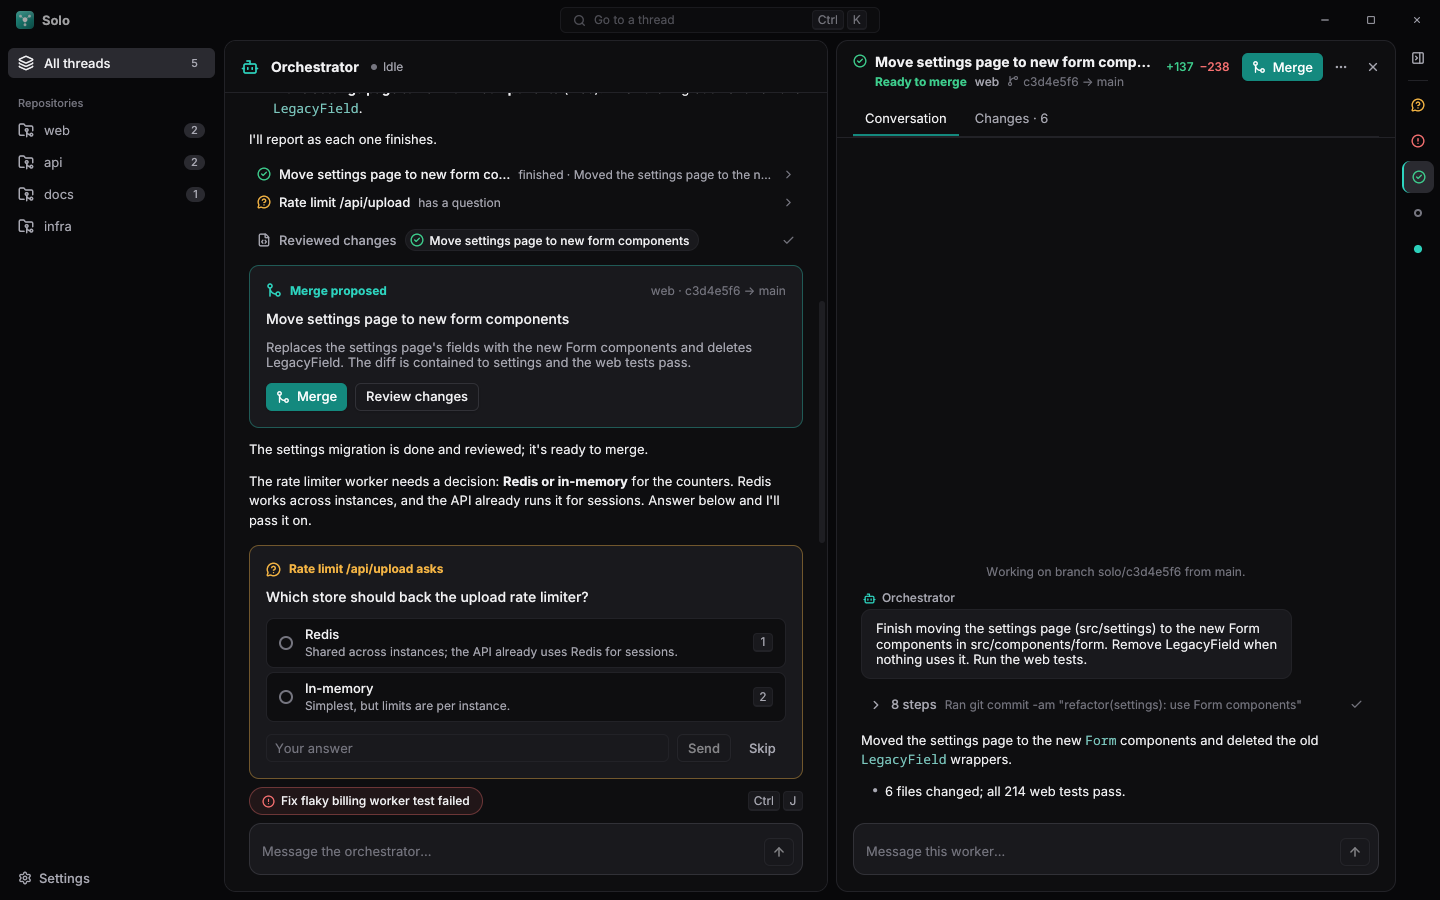
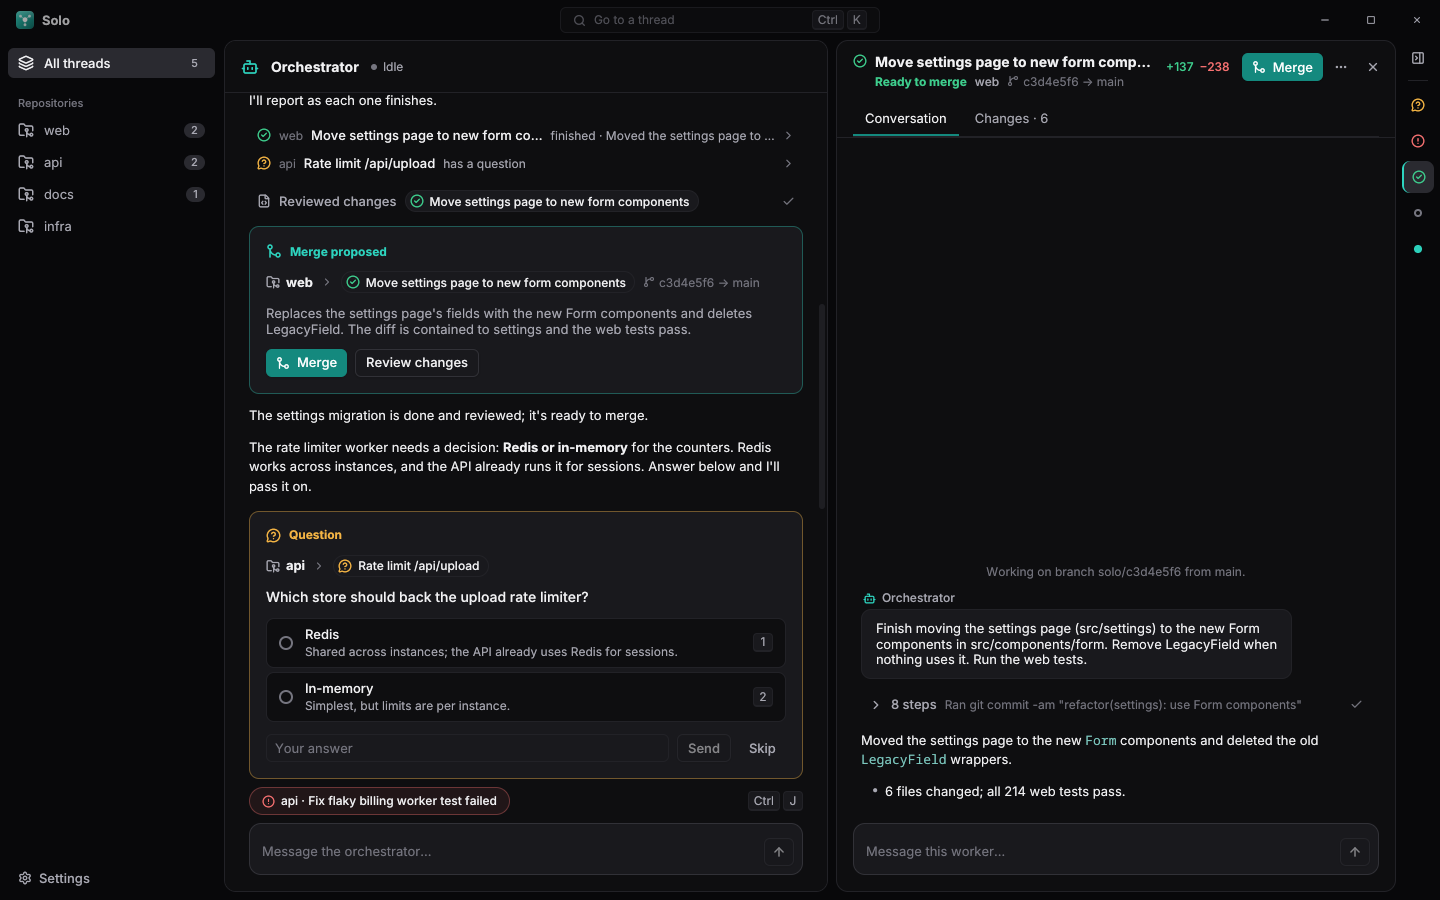
feat(gui): show the repository and thread on merge and question cards
Merge proposals and worker questions in the orchestrator chat start
with a context line: the repository, the thread as a chip that opens it,
and for a merge its branch and target. Thread updates and attention
chips name the repository too.

Changed region(s): [[0.1562, 0.0933, 0.5312, 0.6533], [0.1875, 0.8711, 0.3438, 0.9022]]

diff --git a/internal/gui/chat.go b/internal/gui/chat.go
@@ -351,7 +351,7 @@ func (a *App) updateView(ctx *ui.Context, text string) ui.Element {
 		if m == nil {
 			continue
 		}
-		id, name, rest := m[1], m[2], m[4]
+		id, name, repo, rest := m[1], m[2], m[3], m[4]
 		icon, c, what := icons.Activity, t.TextMuted, rest
 		switch {
 		case strings.HasPrefix(rest, "finished its turn."):
@@ -376,6 +376,7 @@ func (a *App) updateView(ctx *ui.Context, text string) ui.Element {
 		threadID := a.findThreadID(id)
 		line := ui.Div().Row().Align(ui.Center).Gap(space2).PaddingX(space2).Height(ui.Px(26)).Radius(radiusS).
 			Child(ui.Icon(icon).Size(14).Color(c)).
+			Child(ui.Text(repo).FontSize(12).TextColor(t.TextSubtle).NoWrap().Shrink(0)).
 			Child(ui.Text(name).FontSize(13).Medium().NoWrap().Shrink(0).MaxWidth(ui.Percent(45)).Truncate()).
 			Child(ui.Text(what).FontSize(12).TextColor(t.TextMuted).Truncate().Grow(1).MinWidth(ui.Px(0)))
 		if threadID != "" {
@@ -588,18 +589,12 @@ func (a *App) proposalCard(ctx *ui.Context, d core.ProposalData) ui.Element {
 				OnClick(func() { a.merge(d.ThreadID) })).
 			Child(ui.Button("Review changes").Secondary().Small().OnClick(func() { a.openThread(d.ThreadID, "changes") }))
 	}
-	meta := filepath.Base(th.RepoPath)
-	if th.Branch != "" {
-		meta += " · " + branchLabel(th) + " → " + th.BaseBranch
-	}
 	return ui.Div().Column().Gap(space3).Padding(space4).Radius(radiusL).Background(t.Surface).
 		Border(1, brand.Alpha(0.35)).
 		Child(ui.Div().Row().Align(ui.Center).Gap(space2).
 			Child(ui.Icon(icons.GitMerge).Size(16).Color(brand)).
-			Child(ui.Text("Merge proposed").FontSize(12).Semibold().TextColor(brand).NoWrap()).
-			Child(ui.Div().Grow(1)).
-			Child(subtle(ctx, meta).TruncateHead().MinWidth(ui.Px(0)))).
-		Child(subhead(d.Title).FontSize(14)).
+			Child(ui.Text("Merge proposed").FontSize(12).Semibold().TextColor(brand).NoWrap())).
+		Child(a.threadContext(ctx, d.ThreadID, true)).
 		Child(ui.Text(d.Summary).FontSize(13).TextColor(t.TextMuted)).
 		Child(actions)
 }
@@ -655,11 +650,7 @@ func (a *App) askForm(ctx *ui.Context, threadID, toolUseID string, qs []agent.Qu
 		}
 		head := ui.Div().Row().Align(ui.Center).Gap(space2).
 			Child(ui.Icon(icons.MessageCircleQuestionMark).Size(15).Color(t.Warning))
-		if title != "" {
-			head = head.Child(ui.Text(title).FontSize(12).Semibold().TextColor(t.Warning).Truncate().MinWidth(ui.Px(0)))
-		} else {
-			head = head.Child(ui.Text("Question").FontSize(12).Semibold().TextColor(t.Warning))
-		}
+		head = head.Child(ui.Text("Question").FontSize(12).Semibold().TextColor(t.Warning))
 		if len(qs) > 1 {
 			head = head.Child(subtle(ctx, fmt.Sprintf("%d of %d", len(cur)+1, len(qs))))
 		}
@@ -707,6 +698,7 @@ func (a *App) askForm(ctx *ui.Context, threadID, toolUseID string, qs []agent.Qu
 				}
 			}).
 			Child(head).
+			Child(ui.If(title != "", a.threadContext(ctx, threadID, false))).
 			Child(ui.Text(q.Question).FontSize(14).Medium()).
 			Child(opts).
 			Child(otherRow)
@@ -769,14 +761,14 @@ func (a *App) attentionBar(ctx *ui.Context) ui.Element {
 	}
 	row := ui.Div().Row().Align(ui.Center).Gap(space2).MinWidth(ui.Px(0))
 	if len(ready) > 0 {
-		text := ready[0].Title + " is ready to merge"
+		text := filepath.Base(ready[0].RepoPath) + " · " + ready[0].Title + " is ready to merge"
 		if len(ready) > 1 {
 			text = fmt.Sprintf("%d ready to merge", len(ready))
 		}
 		row = row.Child(pill(icons.GitMerge, t.Success, text, ready[0], "changes"))
 	}
 	if len(failed) > 0 {
-		text := failed[0].Title + " failed"
+		text := filepath.Base(failed[0].RepoPath) + " · " + failed[0].Title + " failed"
 		if len(failed) > 1 {
 			text = fmt.Sprintf("%d failed", len(failed))
 		}
@@ -895,4 +887,26 @@ func (a *App) threadChip(ctx *ui.Context, id string) ui.Element {
 		OnClick(func() { a.openThread(id, "conversation") }).
 		Child(statusMark(ctx, th.Status)).
 		Child(ui.Text(th.Title).FontSize(12).Medium().Truncate().MinWidth(ui.Px(0)))
+}
+
+// threadContext says which repository and thread a card is about: the repository, the thread (a chip
+// that opens it), and, for a merge, its branch and target.
+func (a *App) threadContext(ctx *ui.Context, id string, branch bool) ui.Element {
+	t := ctx.Theme()
+	th, ok := a.thread(id)
+	if !ok {
+		return ui.Div()
+	}
+	row := ui.Div().Row().Align(ui.Center).Gap(space2).Wrap().
+		Child(ui.Div().Row().Align(ui.Center).Gap(space1 + 2).Shrink(0).
+			Child(ui.Icon(icons.FolderGit2).Size(14).Color(t.TextMuted)).
+			Child(ui.Text(filepath.Base(th.RepoPath)).FontSize(13).Semibold())).
+		Child(ui.Icon(icons.ChevronRight).Size(12).Color(t.TextSubtle)).
+		Child(a.threadChip(ctx, id))
+	if branch && th.Branch != "" {
+		row = row.Child(ui.Div().Row().Align(ui.Center).Gap(space1).Shrink(0).
+			Child(ui.Icon(icons.GitBranch).Size(12).Color(t.TextSubtle)).
+			Child(subtle(ctx, branchLabel(th)+" → "+th.BaseBranch)))
+	}
+	return row
 }
